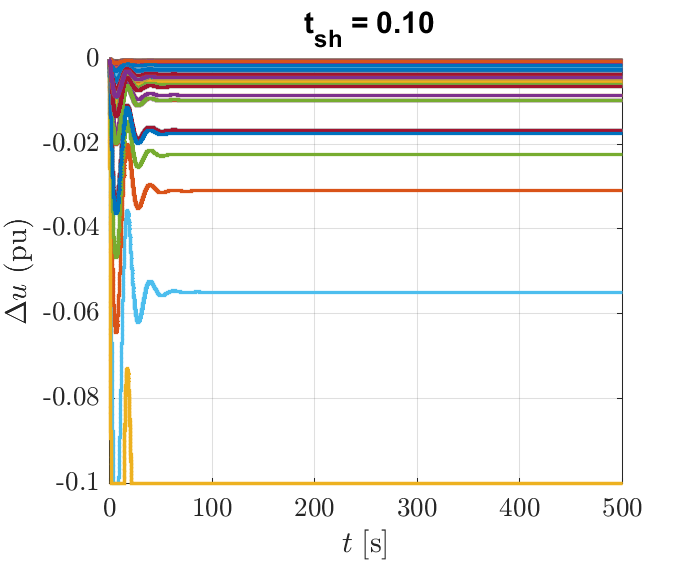
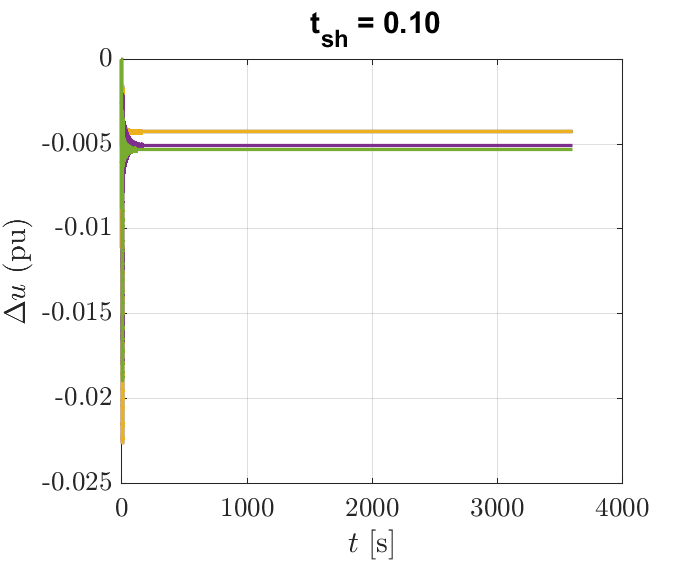
Continue if u want to have results

Changed region(s): [[0.0, 0.0, 0.9462, 0.9964], [0.0, 0.4529, 0.061, 0.4831]]

diff --git a/testing_nonlinear.m b/testing_nonlinear.m
@@ -12,13 +12,13 @@ flag_ren = 0;
 flag_plot_metrics = 0;
 
 
-[mpc,n_res,idx_initial] = get_g('ERCOT_reference/AutoSynGrid_OPF_250_2.mat',flag_ren);
+[mpc,n_res,idx_initial] = get_g('case14',flag_ren);
 idx = idx_initial;
 mpc = runpf(mpc,opt);
 clearvars -except mpc flag_plot_metrics flag_ren n_res idx idx_initial  simulation_hours simulation_seconds h debug opt
 
-n_areas = 30;
-[A_c,B_c,C,~,W_c,~,C_mech,~,E,~,network,bus_ss,ren_ss,E_fs] = get_global_ss(mpc,n_areas,flag_ren,debug);
+n_areas = 3;
+[A_c,B_c,C,~,W_c,~,C_mech,~,E,~,network,bus_ss,ren_ss,E_fs,k_ties] = get_global_ss(mpc,n_areas,flag_ren,debug);
 max(A_c,[],'all')
 network_initial = network;
 
@@ -34,7 +34,7 @@ network_initial = network;
 % load('data/sim_118_30')
 
 
-h = 1;
+h = 0.1;
 
 simulation_hours = 1;
 simulation_seconds = 0 + 3600*simulation_hours;
@@ -54,8 +54,10 @@ simulation_seconds = 0 + 3600*simulation_hours;
 % ylabel('Imaginary Axis')
 
 [A,B,W] = discrete_dynamics(A_c,B_c,W_c,h);
-
-
+% 
+% for i = 1:n_areas
+%     [network(i).A,network(i).B,~] = discrete_dynamics(network(i).A,network(i).B,zeros(size(network(i).A,1),1),h);
+% end
 
 
 % Initial conditions
@@ -84,11 +86,7 @@ w = zeros(size(W,2),size(t_L,2));
 tspan = [0 simulation_seconds];
 
 
-u_index = zeros(length(network)+1,1);
-u_index(1) = 1;
-for i = 1:length(network) 
-    u_index(i+1) = u_index(i) + network(i).machines;
-end
+
 opts = odeset('RelTol',1e-8,'AbsTol',1e-8);
 
 
@@ -125,18 +123,32 @@ s_h = 0.0;
 y_increment = C*(x_nL_d(:,1)-x0);
 
 tic
+q(freq_index) = 10.*k_ties;
+q(angle_index) = 0.1.*k_ties;
 
 
+R_ties = zeros(1,size(B,2));
+j = 1;
+for i = 1:size(network,2)
+    R_ties(j:j-1+network(i).machines) = k_ties(i);
+    j = j + network(i).machines;
+end
 
-K = dlqr(A,B,diag(q),R*eye(size(B,2)));
+% abs(eig(A-B*K*C_))
 
 
-[K,E_fs] = slow_ss(mpc,network,h,A_c);
+K  = LQROneStepLTI(A,B,diag(q),diag(0.01.*R_ties),E,NaN);
 
 
+% K = dlqr(A,B,diag(q),R*eye(size(B,2)));
+
+
+% [K,E_fs] = slow_ss(mpc,network,h,A_c);
+% 
+% 
 % K = zeros(size(K));
-
-
+% 
+% 
 K_local = zeros(size(K));
 K_local(logical(E_fs)) = K(logical(E_fs));
 K_neighbour = zeros(size(K));
@@ -235,9 +247,9 @@ set(gca,'TickLabelInterpreter','latex') % Latex style axis
 hold on
 grid on
 box on;
-stairs(t_L,y_nL_d(1:3:end,:)','LineWidth',1.5);
-yline(1+freq_limit,'--');
-yline(1-freq_limit,'--');
+stairs(t_L,y_nL_d(1:3:end,:)'-1,'LineWidth',1.5);
+% yline(freq_limit,'--');
+% yline(freq_limit,'--');
 title(sprintf('t_{sh} = %.2f s',t_sh),'Interpreter','tex')
 ylabel('$\omega$ (pu)','interpreter','latex');
 xlabel('$t \;[\mathrm{s}]$','Interpreter','latex');
@@ -286,63 +298,67 @@ toc
 
 
 %% Linear simulation - Reduced Model Simulation
-[K,E_fs,A_reduced,B_reduced,W_reduced] = slow_ss(mpc,network,h,A_c);
-
-C_reduced = eye(size(A_reduced));
-
-x_L_reduced = zeros(size(A_reduced,1),size(t_L,2));
-delta_u_reduced  = zeros(size(B_reduced,2),size(t_L,2));
-y_L_reduced  = zeros(size(C_reduced,1),size(t_L,2));
-x_L_reduced(:,1) = zeros(size(A_reduced,1),1);
-
-
-for k = 1:length(t_L)-1
-
-
-    delta_u_reduced(:,k) = -K*x_L_reduced(:,k);
-    delta_u_reduced(:,k) = min(max(delta_u_reduced(:,k),-0.1),0.1);
-
-    x_L_reduced(:,k+1) = A_reduced*x_L_reduced(:,k) + B_reduced*delta_u_reduced(:,k)+ W_reduced*w(:,k);
-    y_L_reduced(:,k+1) = C_reduced*(x_L_reduced(:,k+1));
-
-end
-
-
-freq_limit = 0.05/50;
-figure
-set(gca,'TickLabelInterpreter','latex') % Latex style axis
-hold on
-grid on
-box on;
-stairs(t_L,y_L_reduced(1:2:end,:)','LineWidth',1.5);
-title('Reduced Linearized Model','Interpreter','tex')
-ylabel('$\Delta \omega$ (pu)','interpreter','latex');
-xlabel('$t \;[\mathrm{s}]$','Interpreter','latex');
-legend({'Area 1','Area 2','Area 3'},'Location','best')
-hold off
-
-
-figure
-set(gca,'TickLabelInterpreter','latex') % Latex style axis
-hold on
-grid on
-box on;
-stairs(t_L,delta_u_reduced','LineWidth',1.5);
-ylabel('$\Delta u$ (pu)','interpreter','latex');
-xlabel('$t \;[\mathrm{s}]$','Interpreter','latex');
-
-% % freq_limit = 0.05/50;
-% % figure
-% % set(gca,'TickLabelInterpreter','latex') % Latex style axis
-% % hold on
-% % grid on
-% % box on;
-% % stairs(t_L,y_L_reduced(2:2:end,:)','LineWidth',1.5);
-% % title('Reduced Model','Interpreter','tex')
-% % ylabel('$\omega$ (pu)','interpreter','latex');
-% % xlabel('$t \;[\mathrm{s}]$','Interpreter','latex');
-% % legend({'Area 1','Area 2','Area 3'},'Location','best')
-% % hold off
+% [K,E_fs,A_reduced,B_reduced,W_reduced] = slow_ss(mpc,network,h,A_c);
+% 
+% C_reduced = eye(size(A_reduced));
+% 
+% x_L_reduced = zeros(size(A_reduced,1),size(t_L,2));
+% delta_u_reduced  = zeros(size(B_reduced,2),size(t_L,2));
+% y_L_reduced  = zeros(size(C_reduced,1),size(t_L,2));
+% x_L_reduced(:,1) = zeros(size(A_reduced,1),1);
+% 
+% 
+% for k = 1:length(t_L)-1
+% 
+% 
+%     delta_u_reduced(:,k) = -K*x_L_reduced(:,k);
+%     delta_u_reduced(:,k) = min(max(delta_u_reduced(:,k),-0.1),0.1);
+% 
+%     x_L_reduced(:,k+1) = A_reduced*x_L_reduced(:,k) + B_reduced*delta_u_reduced(:,k)+ W_reduced*w(:,k);
+%     y_L_reduced(:,k+1) = C_reduced*(x_L_reduced(:,k+1));
+% 
+% end
+% 
+% 
+% freq_limit = 0.05/50;
+% figure
+% set(gca,'TickLabelInterpreter','latex') % Latex style axis
+% hold on
+% grid on
+% box on;
+% stairs(t_L,y_L_reduced(1:2:end,:)','LineWidth',1.5);
+% title('Reduced Linearized Model','Interpreter','tex')
+% ylabel('$\Delta \omega$ (pu)','interpreter','latex');
+% xlabel('$t \;[\mathrm{s}]$','Interpreter','latex');
+% legend({'Area 1','Area 2','Area 3'},'Location','best')
+% hold off
+% 
+% 
+% figure
+% set(gca,'TickLabelInterpreter','latex') % Latex style axis
+% hold on
+% grid on
+% box on;
+% stairs(t_L,delta_u_reduced','LineWidth',1.5);
+% ylabel('$\Delta u$ (pu)','interpreter','latex');
+% xlabel('$t \;[\mathrm{s}]$','Interpreter','latex');
+% 
+% freq_limit = 0.05/50;
+% figure
+% set(gca,'TickLabelInterpreter','latex') % Latex style axis
+% hold on
+% grid on
+% box on;
+% stairs(t_L,y_L_reduced(2:2:end,:)','LineWidth',1.5);
+% title('Reduced Model','Interpreter','tex')
+% ylabel('$\omega$ (pu)','interpreter','latex');
+% xlabel('$t \;[\mathrm{s}]$','Interpreter','latex');
+% legend({'Area 1','Area 2','Area 3'},'Location','best')
+% hold off
+% mask = abs(delta_u_reduced(:,end)) < 0.1; 
+% if sum(mask) < 10
+%     1;
+% end
 
 
 
@@ -356,8 +372,14 @@ y_L = zeros(size(C,1),size(t_L,2));
 x_L(:,1) = zeros(size(A,1),1);
 %y_L(:,1) = C*x0;
 
-% K  = LQROneStepLTI(A,B,diag(q),0.1*eye(size(B,2)),E,NaN);
-% K = dlqr(A,B,diag(q),0.1*eye(size(B,2)));
+
+%Closed loop in the original system
+C_ = zeros(2*length(network),size(C,2));
+C_(1:2:end) = C(1:3:end,:);
+C_(2:2:end) = -C(3:3:end,:);
+
+
+%K = dlqr(A,B,diag(q),0.1*eye(size(B,2)));
 %[K,E_fs] = slow_ss(mpc,network,h,A_c);
 
 

diff --git a/slow_ss.m b/slow_ss.m
@@ -1,4 +1,4 @@
-function [K,E_fs,A,B,W] = slow_ss(mpc,network,h,A_teste)
+function [K,E_fs,A,B,W] = slow_ss(mpc,network,h,A_orig)
     
 
     %% Generate the ss for each area
@@ -106,7 +106,7 @@ function [K,E_fs,A,B,W] = slow_ss(mpc,network,h,A_teste)
     figure
     hold on
     title("Reduced vs Original Model poles zoomed")
-    plot(real(eig(A_teste)),imag(eig(A_teste)),'x')
+    plot(real(eig(A_orig)),imag(eig(A_orig)),'x')
     plot(real(eig(A_global)),imag(eig(A_global)),'x')
     legend({'Original','Reduced'},'Location','best')
     xline(0)
@@ -186,11 +186,11 @@ function [K,E_fs,A,B,W] = slow_ss(mpc,network,h,A_teste)
     %K = LQROneStepLTI_augmented(A1_hat,Bg1_hat,Q,R,E,300e3,1e-8,A,B,r,Z,T);
 
 
-    [K,~,trace_records] = LQROneStepLTI(A,B,diag(q),diag(1e4.*R_ties),E,NaN);
-    % figure
-    % plot(trace_records(trace_records>0))
-    % xlabel('Iterations')
-    % ylabel("trace(P_{inf})",'Interpreter','tex')
+    [K,~,trace_records] = LQROneStepLTI(A,B,diag(q),diag(1e5.*R_ties),E,NaN);
+    figure
+    plot(trace_records(trace_records>0))
+    xlabel('Iterations')
+    ylabel("trace(P_{inf})",'Interpreter','tex')
 
 
     % 

diff --git a/get_global_ss.m b/get_global_ss.m
@@ -1,4 +1,4 @@
-function [A_global,B_global,C_global,D_global,W_global,machine_ss,C_mac,u,E,areas,network,bus_ss,ren_ss,E_fs] = get_global_ss(mpc,n_areas,flag_ren,debug,network)
+function [A_global,B_global,C_global,D_global,W_global,machine_ss,C_mac,u,E,areas,network,bus_ss,ren_ss,E_fs,k_ties] = get_global_ss(mpc,n_areas,flag_ren,debug,network)
     
     base_mva = 100;
     ren_data = load('data\solar.mat');
@@ -25,7 +25,7 @@ function [A_global,B_global,C_global,D_global,W_global,machine_ss,C_mac,u,E,area
         mpc.mac_con(:,17) = mpc.mac_con(:,17).*mpc.mac_con(:,3)/base_mva;
         
     
-        % mpc.tg_con(:,4) = 0;
+        % mpc.tg_con(:,4) = mpc.tg_con(:,4)./4;
 
 
     
@@ -376,6 +376,7 @@ function [A_global,B_global,C_global,D_global,W_global,machine_ss,C_mac,u,E,area
         %A_global(index_ss(i+1)-1, index_ss(i) ) = T_i;
         
         A_global(index_ss(i), index_ss(i+1)-1) = T_i/network(i).inertia;
+        k_ties(i) = T_i;
         %C_global(C_index(i),index_ss(i+1)-1) = T_i;
 
     end

diff --git a/nonlinear_model.m b/nonlinear_model.m
@@ -13,7 +13,7 @@ function dxdt = nonlinear_model(t,x,network,bus_ss,x0,u0,PL,Pres,Pt0,delta_u,deb
     
     u = u0 + delta_u;
     
-    u = max(u,0);
+    % u = max(u,0);
 
     index_res = 1;
     for i = 1:length(network)
@@ -63,11 +63,8 @@ function dxdt = nonlinear_model(t,x,network,bus_ss,x0,u0,PL,Pres,Pt0,delta_u,deb
         else
             dxdt(angle_index(i)) = -2*pi*60*delta_x(area_index(1));
         end
-        % 
-        % mask = abs(dxdt) < 1e-7;
-        % dxdt(mask) = 0;
-
-      
     end
+
+    dxdt;
 end
 

diff --git a/get_disturbance_profile.m b/get_disturbance_profile.m
@@ -145,7 +145,7 @@ function [w,w_load,w_ren,P_load,P_res] = get_disturbance_profile(w,h,n_areas,sim
         P_res = [];
     end
     
-    % w_load = zeros(size(w_load));
+    %w_load = zeros(size(w_load));
     P_load = PL0+ w_load;
 
 
